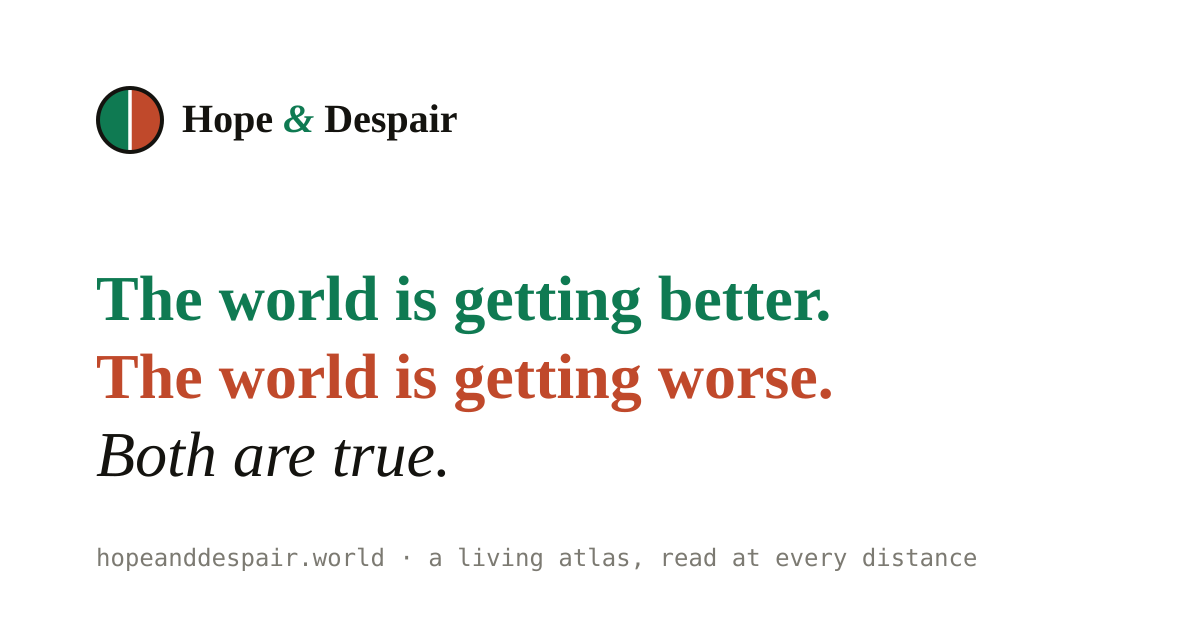
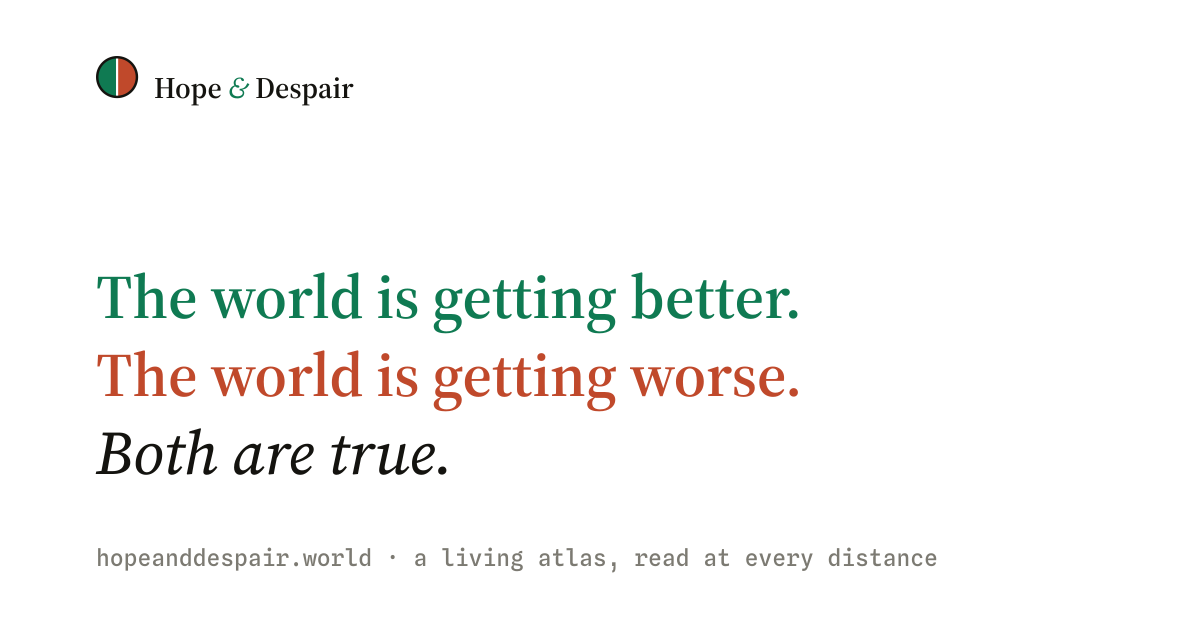
Per-article OG cards in the real site faces
Each published article gets its own 1200x630 Open Graph card (public/og/<slug>.png):
the question in Source Serif, the verdict in italic, the series eyebrow, and — where the
article carries one — a two-tone sparkline of its own hero curve (long arc + recent turn).
Cards render in the REAL Source Serif 4 / Spline Sans Mono: scripts/og-fonts.py instances the
variable woff2s to static TTFs and points fontconfig at them so librsvg uses them, not a system
serif. Titles auto-fit (wrap to two balanced lines when long); no-hero cards centre their block.
The default public/og.png (the thesis) is upgraded to the real faces too. [slug].astro wires
og:image per page, falling back to the site default. Regenerate with pnpm og (dev-only; the PNGs
are committed, deploy never runs the font toolchain).

diff --git a/scripts/make-og.ts b/scripts/make-og.ts
@@ -1,23 +1,131 @@
-import sharp from 'sharp';
-import { writeFileSync } from 'node:fs';
+import { writeFileSync, mkdirSync, existsSync, readFileSync, readdirSync } from 'node:fs';
+import { execFileSync } from 'node:child_process';
+import path from 'node:path';
 
-// One branded Open Graph card (1200×630), rasterised once into public/og.png. Typographic,
-// in the site's palette — the thesis stated plainly. Run: pnpm tsx scripts/make-og.ts
-const svg = `<svg xmlns="http://www.w3.org/2000/svg" width="1200" height="630" viewBox="0 0 1200 630">
-  <rect width="1200" height="630" fill="#FFFFFF"/>
-  <g transform="translate(96,86)">
-    <path d="M34 2 a32 32 0 0 0 0 64 z" fill="#0F7A52"/>
-    <path d="M34 2 a32 32 0 0 1 0 64 z" fill="#C0492B"/>
-    <line x1="34" y1="0" x2="34" y2="68" stroke="#ffffff" stroke-width="3.5"/>
-    <circle cx="34" cy="34" r="32" fill="none" stroke="#14130F" stroke-width="4"/>
-    <text x="86" y="46" font-family="Georgia, 'Times New Roman', serif" font-size="40" font-weight="600" fill="#14130F">Hope <tspan fill="#0F7A52" font-style="italic">&amp;</tspan> Despair</text>
-  </g>
-  <text x="96" y="320" font-family="Georgia, 'Times New Roman', serif" font-size="64" font-weight="700" fill="#0F7A52">The world is getting better.</text>
-  <text x="96" y="398" font-family="Georgia, 'Times New Roman', serif" font-size="64" font-weight="700" fill="#C0492B">The world is getting worse.</text>
-  <text x="96" y="476" font-family="Georgia, 'Times New Roman', serif" font-size="64" font-style="italic" fill="#14130F">Both are true.</text>
-  <text x="96" y="566" font-family="monospace" font-size="24" fill="#7C7A72">hopeanddespair.world  ·  a living atlas, read at every distance</text>
-</svg>`;
+/* Open Graph cards (1200×630), rasterised into public/. Run: `pnpm og`.
+   - public/og.png            — the site/home default (the thesis, stated plainly)
+   - public/og/<slug>.png     — one per published article: its question + verdict + its own
+                                two-tone carrying sparkline (the long arc + the recent turn).
+   Rendered in the REAL site faces: scripts/og-fonts.py instances the variable woff2s to static
+   TTFs and points fontconfig at them, so sharp/librsvg draws Source Serif 4 / Spline Sans Mono,
+   not a generic system serif. The PNGs are committed; the deploy build never runs this. */
 
-const png = await sharp(Buffer.from(svg)).png().toBuffer();
-writeFileSync('public/og.png', png);
-console.log('wrote public/og.png', png.length, 'bytes');
+// 1) Prepare the real fonts (once), then load sharp so it picks up FONTCONFIG_FILE.
+const CACHE = path.resolve('scripts/.og-fonts');
+if (!existsSync(path.join(CACHE, 'og-serif.ttf'))) {
+  console.log('instancing site fonts for the OG cards…');
+  execFileSync('python3', ['scripts/og-fonts.py', CACHE], { stdio: 'inherit' });
+}
+process.env.FONTCONFIG_FILE = path.join(CACHE, 'fonts.conf');
+const sharp = (await import('sharp')).default;
+
+const SERIF = 'OG Serif', ITALIC = 'OG Serif Italic', MONO = 'OG Mono';
+const COL = { hope: '#0F7A52', despair: '#C0492B', stone: '#6E7E92', ink: '#14130F', ink2: '#2B2823', ink3: '#7C7A72', faint: '#9A988F' };
+const W = 1200, H = 630, PAD = 96;
+const esc = (s: string) => s.replace(/&/g, '&amp;').replace(/</g, '&lt;').replace(/>/g, '&gt;');
+const tempCol = (t?: string) => (t === 'cool' ? COL.hope : t === 'warm' ? COL.despair : COL.stone);
+
+// the split-circle emblem + wordmark, top-left
+const brand = `<g transform="translate(${PAD},56) scale(0.62)"><path d="M34 2 a32 32 0 0 0 0 64 z" fill="${COL.hope}"/><path d="M34 2 a32 32 0 0 1 0 64 z" fill="${COL.despair}"/><line x1="34" y1="0" x2="34" y2="68" stroke="#fff" stroke-width="3.5"/><circle cx="34" cy="34" r="32" fill="none" stroke="${COL.ink}" stroke-width="4"/></g>`
+  + `<text x="${PAD + 58}" y="98" font-family="${SERIF}" font-size="30" fill="${COL.ink}">Hope <tspan fill="${COL.hope}" font-family="${ITALIC}">&amp;</tspan> Despair</text>`;
+
+/** Catmull-Rom → cubic bézier, for a soft sparkline through pixel points. */
+function smoothPath(pts: [number, number][]): string {
+  if (pts.length < 2) return '';
+  if (pts.length < 3) return pts.map((p, i) => (i ? 'L' : 'M') + p[0].toFixed(1) + ' ' + p[1].toFixed(1)).join(' ');
+  let d = `M${pts[0][0].toFixed(1)} ${pts[0][1].toFixed(1)}`;
+  for (let i = 0; i < pts.length - 1; i++) {
+    const p0 = pts[i - 1] || pts[i], p1 = pts[i], p2 = pts[i + 1], p3 = pts[i + 2] || p2;
+    const c1x = p1[0] + (p2[0] - p0[0]) / 6, c1y = p1[1] + (p2[1] - p0[1]) / 6;
+    const c2x = p2[0] - (p3[0] - p1[0]) / 6, c2y = p2[1] - (p3[1] - p1[1]) / 6;
+    d += ` C${c1x.toFixed(1)} ${c1y.toFixed(1)} ${c2x.toFixed(1)} ${c2y.toFixed(1)} ${p2[0].toFixed(1)} ${p2[1].toFixed(1)}`;
+  }
+  return d;
+}
+
+/** Size the title to fit one line at the largest comfortable size; wrap to two balanced lines
+    only when even the smallest one-line size would overflow. (~0.49 em average glyph advance.) */
+function fitTitle(q: string): { size: number; lines: string[] } {
+  const avail = W - 2 * PAD, f = 0.49;
+  for (const s of [66, 60, 54]) if (q.length * s * f <= avail) return { size: s, lines: [q] };
+  const words = q.split(' ');
+  let split = 1, best = Infinity;
+  for (let i = 1; i < words.length; i++) {
+    const left = words.slice(0, i).join(' ').length, diff = Math.abs(left - (q.length - left));
+    if (diff < best) { best = diff; split = i; }
+  }
+  const lines = [words.slice(0, split).join(' '), words.slice(split).join(' ')];
+  const longest = Math.max(...lines.map((l) => l.length));
+  let size = 44;
+  for (const s of [56, 52, 48, 44]) if (longest * s * f <= avail) { size = s; break; }
+  return { size, lines };
+}
+
+interface Card { kicker: string; theme: string; question: string; verdict: string; hero?: [number, number][]; heroLabel?: string; bodyTemp?: string; recentTemp?: string; recentFrom?: number; }
+
+function articleCard(c: Card): string {
+  const hasHero = !!(c.hero && c.hero.length >= 2);
+  // With a sparkline anchoring the lower third, the block sits high; without one, drop it so the
+  // eyebrow/title/verdict sit centred between the wordmark and the foot — no bottom-heavy void.
+  const yOff = hasHero ? 0 : 96;
+  const t = fitTitle(c.question), eyebrowY = 210 + yOff, titleTop = 286 + yOff, lineH = t.size * 1.04;
+  let s = `<rect width="${W}" height="${H}" fill="#FFFFFF"/>` + brand;
+  s += `<text x="${PAD}" y="${eyebrowY}" font-family="${MONO}" font-size="22" letter-spacing="3" fill="${COL.ink3}">${esc(c.kicker)} · ${esc(c.theme.toUpperCase())}</text>`;
+  t.lines.forEach((ln, i) => { s += `<text x="${PAD}" y="${(titleTop + i * lineH).toFixed(0)}" font-family="${SERIF}" font-size="${t.size}" fill="${COL.ink}">${esc(ln)}</text>`; });
+  const verdY = titleTop + (t.lines.length - 1) * lineH + 62;
+  s += `<text x="${PAD}" y="${verdY.toFixed(0)}" font-family="${ITALIC}" font-size="32" fill="${COL.ink2}">${esc(c.verdict.replace(/\.\s*$/, ''))}.</text>`;
+  if (hasHero) {
+    const sx0 = PAD, sx1 = W - PAD, sy0 = 472, sy1 = 560;
+    const ys = c.hero.map((p) => p[1]), ymin = Math.min(...ys), ymax = Math.max(...ys);
+    const X = (i: number) => sx0 + (i / (c.hero!.length - 1)) * (sx1 - sx0);
+    const Y = (v: number) => (ymax === ymin ? (sy0 + sy1) / 2 : sy1 - ((v - ymin) / (ymax - ymin)) * (sy1 - sy0));
+    const pts = c.hero.map((p, i) => [X(i), Y(p[1])]) as [number, number][];
+    let split = c.recentFrom != null ? c.hero.findIndex((p) => p[0] >= c.recentFrom!) : -1;
+    if (split < 1) split = Math.max(1, c.hero.length - 4);
+    s += `<path d="${smoothPath(pts.slice(0, split + 1))}" fill="none" stroke="${tempCol(c.bodyTemp)}" stroke-width="3.4" stroke-linejoin="round" stroke-linecap="round"/>`;
+    s += `<path d="${smoothPath(pts.slice(split))}" fill="none" stroke="${tempCol(c.recentTemp)}" stroke-width="3.4" stroke-linejoin="round" stroke-linecap="round"/>`;
+    const e = pts[pts.length - 1];
+    s += `<circle cx="${e[0].toFixed(1)}" cy="${e[1].toFixed(1)}" r="5" fill="${tempCol(c.recentTemp)}"/>`;
+  }
+  s += `<text x="${PAD}" y="600" font-family="${MONO}" font-size="21" fill="${COL.ink3}">hopeanddespair.world</text>`;
+  if (c.heroLabel) s += `<text x="${W - PAD}" y="600" text-anchor="end" font-family="${MONO}" font-size="21" fill="${COL.faint}">${esc(c.heroLabel)}</text>`;
+  return `<svg xmlns="http://www.w3.org/2000/svg" width="${W}" height="${H}" viewBox="0 0 ${W} ${H}">${s}</svg>`;
+}
+
+// minimal frontmatter field readers — the content format is fixed (see content.config.ts)
+const fmOf = (md: string) => (md.match(/^---\n([\s\S]*?)\n---/) || [, ''])[1] as string;
+const sc = (fm: string, k: string) => (fm.match(new RegExp(`^\\s*${k}:\\s*"?(.*?)"?\\s*$`, 'm')) || [])[1];
+const num = (fm: string, k: string) => { const m = (fm.match(new RegExp(`^\\s*${k}:\\s*(-?\\d+)`, 'm')) || [])[1]; return m == null ? undefined : Number(m); };
+
+// 2) The default site card — the thesis, in the real faces.
+const thesis = `<svg xmlns="http://www.w3.org/2000/svg" width="${W}" height="${H}" viewBox="0 0 ${W} ${H}">`
+  + `<rect width="${W}" height="${H}" fill="#FFFFFF"/>${brand}`
+  + `<text x="${PAD}" y="318" font-family="${SERIF}" font-size="62" fill="${COL.hope}">The world is getting better.</text>`
+  + `<text x="${PAD}" y="396" font-family="${SERIF}" font-size="62" fill="${COL.despair}">The world is getting worse.</text>`
+  + `<text x="${PAD}" y="474" font-family="${ITALIC}" font-size="62" fill="${COL.ink}">Both are true.</text>`
+  + `<text x="${PAD}" y="566" font-family="${MONO}" font-size="23" fill="${COL.ink3}">hopeanddespair.world  ·  a living atlas, read at every distance</text></svg>`;
+writeFileSync('public/og.png', await sharp(Buffer.from(thesis)).png().toBuffer());
+console.log('wrote public/og.png');
+
+// 3) One card per published article.
+mkdirSync('public/og', { recursive: true });
+const dir = 'src/content/questions';
+let n = 0;
+for (const file of readdirSync(dir).filter((f) => f.endsWith('.md'))) {
+  const md = readFileSync(path.join(dir, file), 'utf8'), fm = fmOf(md);
+  if (sc(fm, 'status') !== 'published') continue;
+  const slug = file.replace(/\.md$/, '');
+  let hero: [number, number][] | undefined;
+  const hm = fm.match(/^\s*hero:\s*(\[.*\])\s*$/m);
+  if (hm) { try { hero = JSON.parse(hm[1]); } catch { /* leave undefined */ } }
+  const bodyTemp = (fm.match(/windows:[\s\S]*?temp:\s*"?(cool|warm)"?/) || [])[1];
+  const svg = articleCard({
+    kicker: sc(fm, 'kickerNumber') ?? '', theme: sc(fm, 'theme') ?? '', question: sc(fm, 'question') ?? '',
+    verdict: sc(fm, 'verdict') ?? '', hero, heroLabel: sc(fm, 'heroLabel'), bodyTemp,
+    recentTemp: (fm.match(/^\s*recentTemp:\s*"?(cool|warm)"?/m) || [])[1], recentFrom: num(fm, 'recentFrom'),
+  });
+  writeFileSync(`public/og/${slug}.png`, await sharp(Buffer.from(svg)).png().toBuffer());
+  console.log('wrote public/og/' + slug + '.png');
+  n++;
+}
+console.log(`done — ${n} article cards`);

diff --git a/scripts/og-fonts.py b/scripts/og-fonts.py
@@ -1,0 +1,46 @@
+#!/usr/bin/env python3
+"""Instance the site's variable woff2 fonts into static TTFs that librsvg (sharp's rasteriser)
+can actually use, so the OG cards render in the REAL Source Serif 4 / Spline Sans Mono — not a
+generic system serif. Writes the TTFs + a fonts.conf into the cache dir passed as argv[1].
+Run indirectly via `pnpm og` (make-og.ts invokes this once, then points FONTCONFIG_FILE at it).
+Needs: fonttools + brotli (dev-only; the generated PNGs are committed, so deploy never runs this)."""
+import os
+import sys
+from fontTools import ttLib
+from fontTools.varLib.instancer import instantiateVariableFont
+
+cache = os.path.abspath(sys.argv[1])
+os.makedirs(os.path.join(cache, "cache"), exist_ok=True)
+B = "node_modules/@fontsource-variable/"
+
+
+def make(src, axes, family, out):
+    f = ttLib.TTFont(src)
+    instantiateVariableFont(f, axes, inplace=True)
+    nm = f["name"]
+    # rename the family so each weight/style resolves under its own unambiguous name
+    for nid in (1, 16):
+        nm.setName(family, nid, 3, 1, 0x409)
+    for nid in (2, 17):
+        nm.setName("Regular", nid, 3, 1, 0x409)
+    nm.setName(family, 4, 3, 1, 0x409)
+    nm.setName(family.replace(" ", ""), 6, 3, 1, 0x409)
+    f.flavor = None
+    f.save(os.path.join(cache, out))
+
+
+make(B + "source-serif-4/files/source-serif-4-latin-opsz-normal.woff2", {"wght": 600, "opsz": 48}, "OG Serif", "og-serif.ttf")
+make(B + "source-serif-4/files/source-serif-4-latin-opsz-italic.woff2", {"wght": 450, "opsz": 22}, "OG Serif Italic", "og-serif-italic.ttf")
+make(B + "spline-sans-mono/files/spline-sans-mono-latin-wght-normal.woff2", {"wght": 470}, "OG Mono", "og-mono.ttf")
+
+with open(os.path.join(cache, "fonts.conf"), "w") as fh:
+    fh.write(
+        '<?xml version="1.0"?>\n'
+        '<!DOCTYPE fontconfig SYSTEM "fonts.dtd">\n'
+        "<fontconfig>\n"
+        f"  <dir>{cache}</dir>\n"
+        '  <include ignore_missing="yes">/etc/fonts/fonts.conf</include>\n'
+        f"  <cachedir>{os.path.join(cache, 'cache')}</cachedir>\n"
+        "</fontconfig>\n"
+    )
+print("og fonts ready:", cache)
